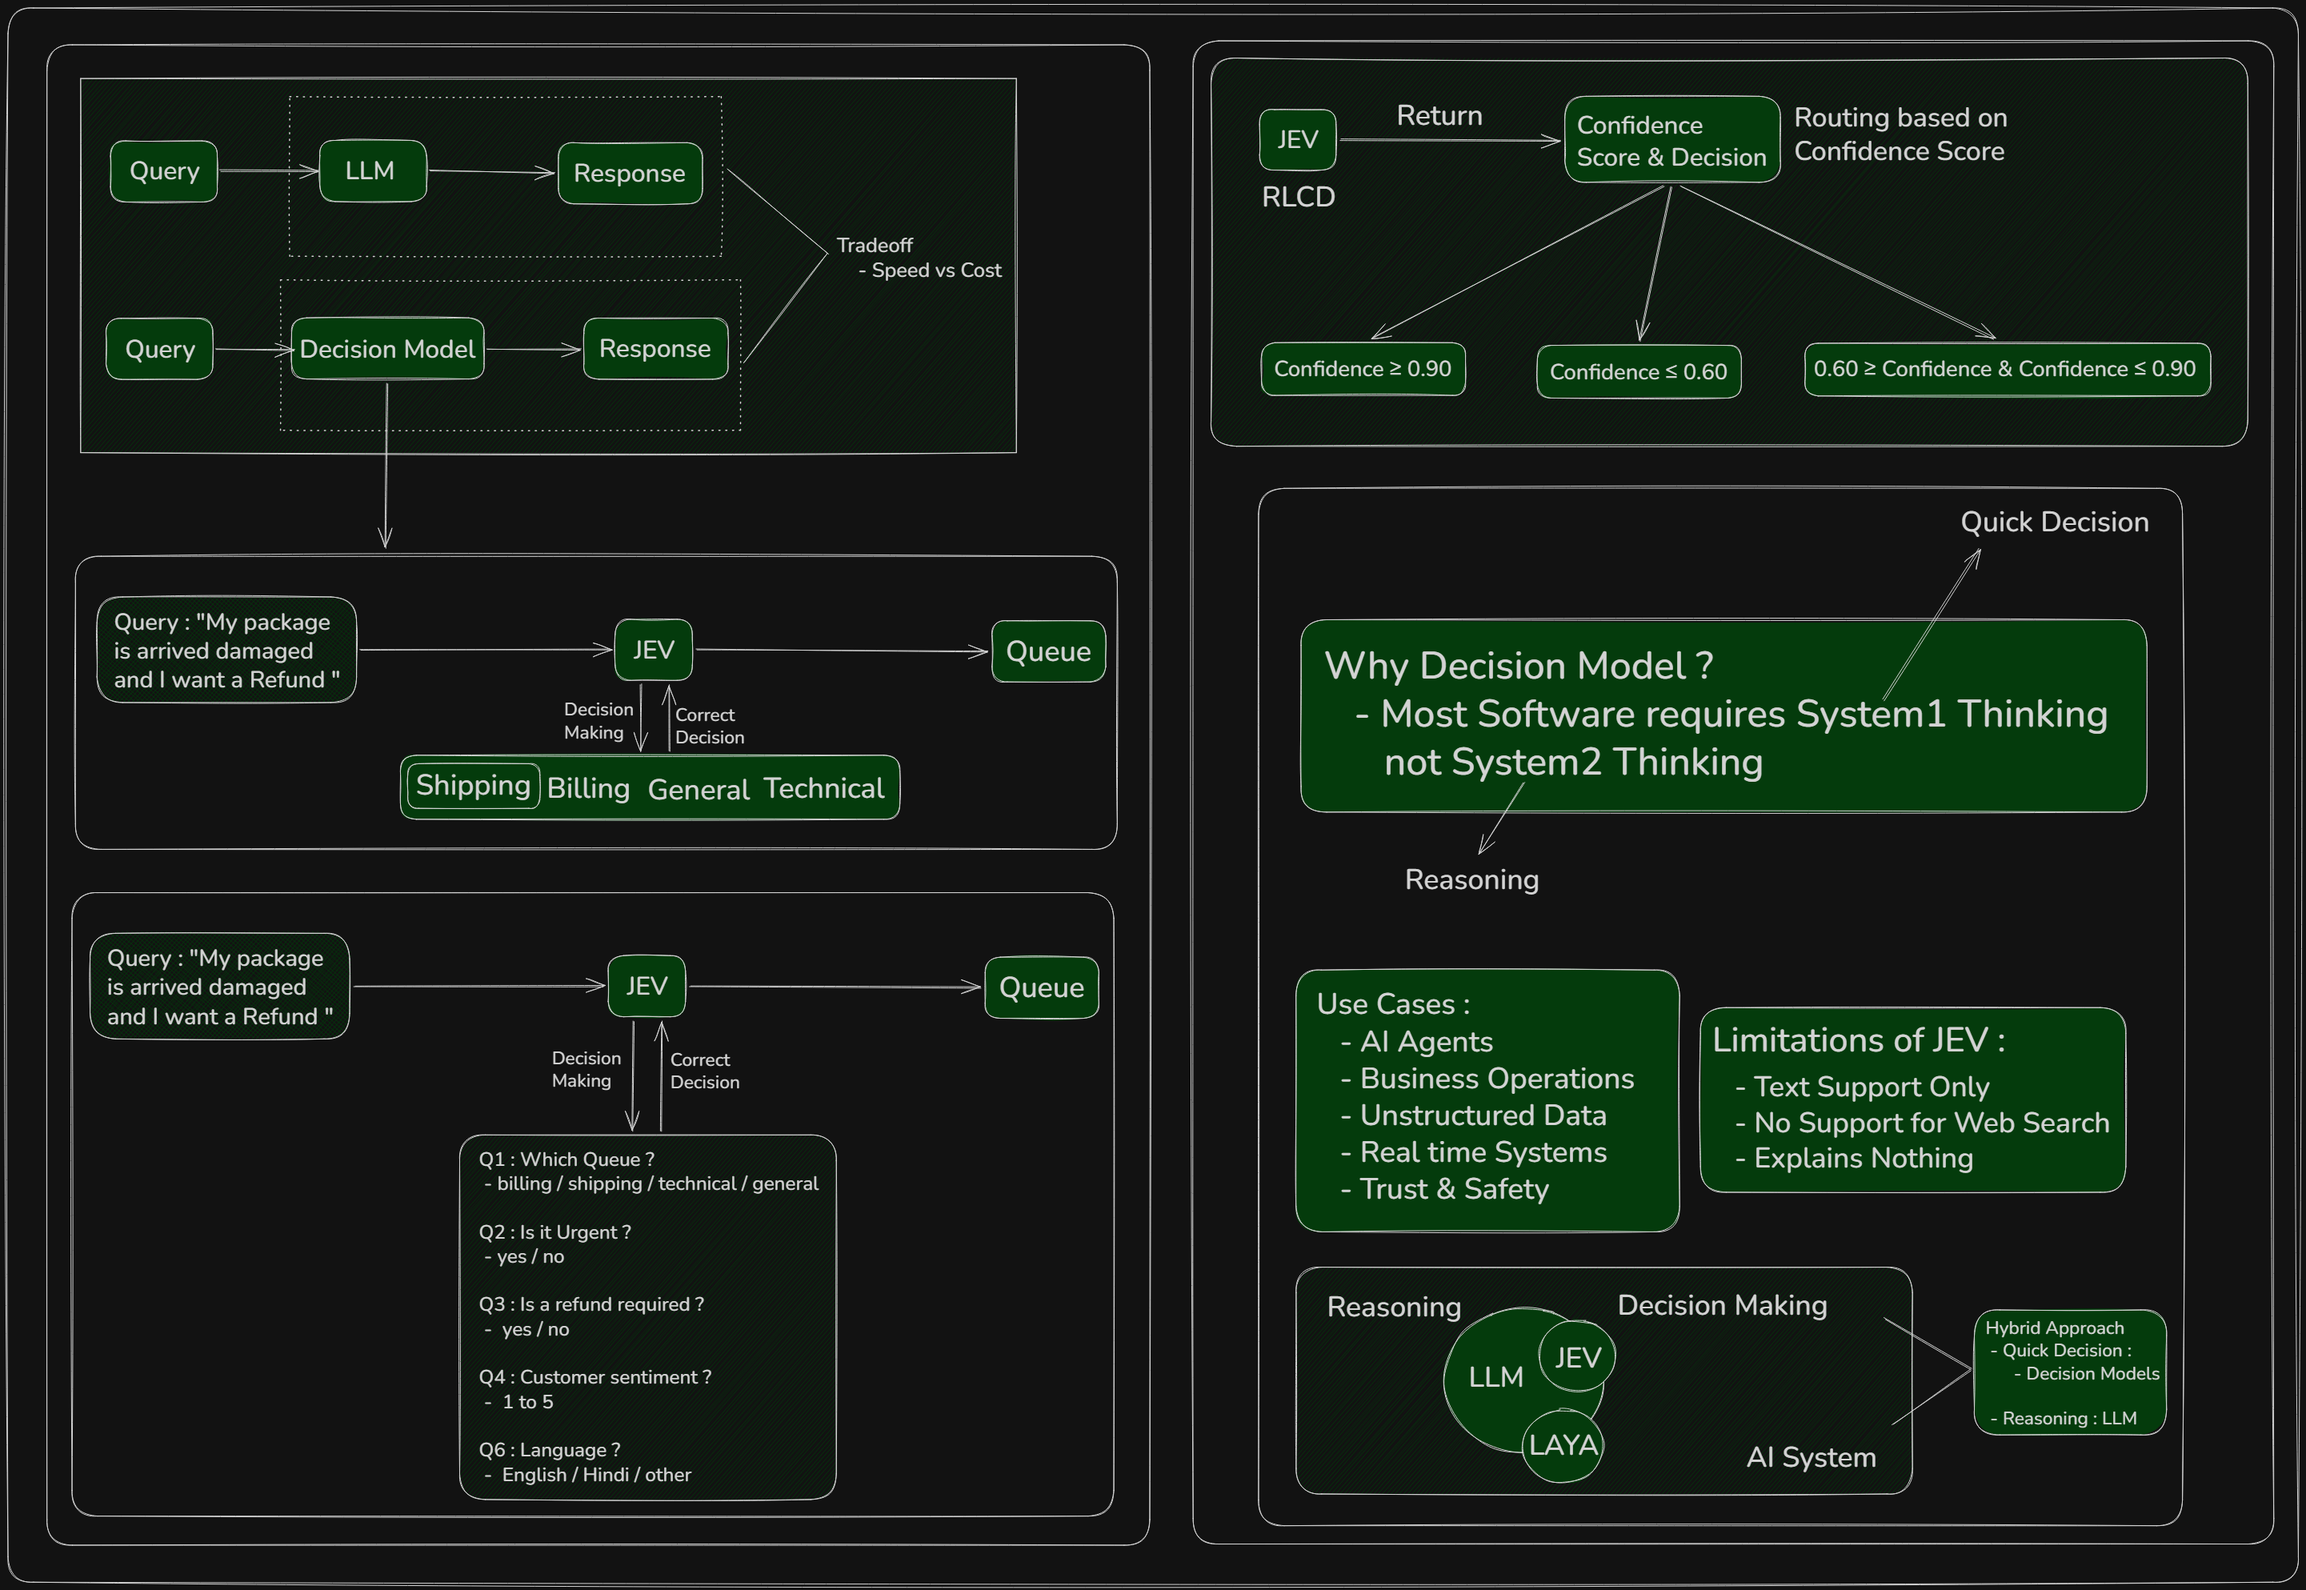
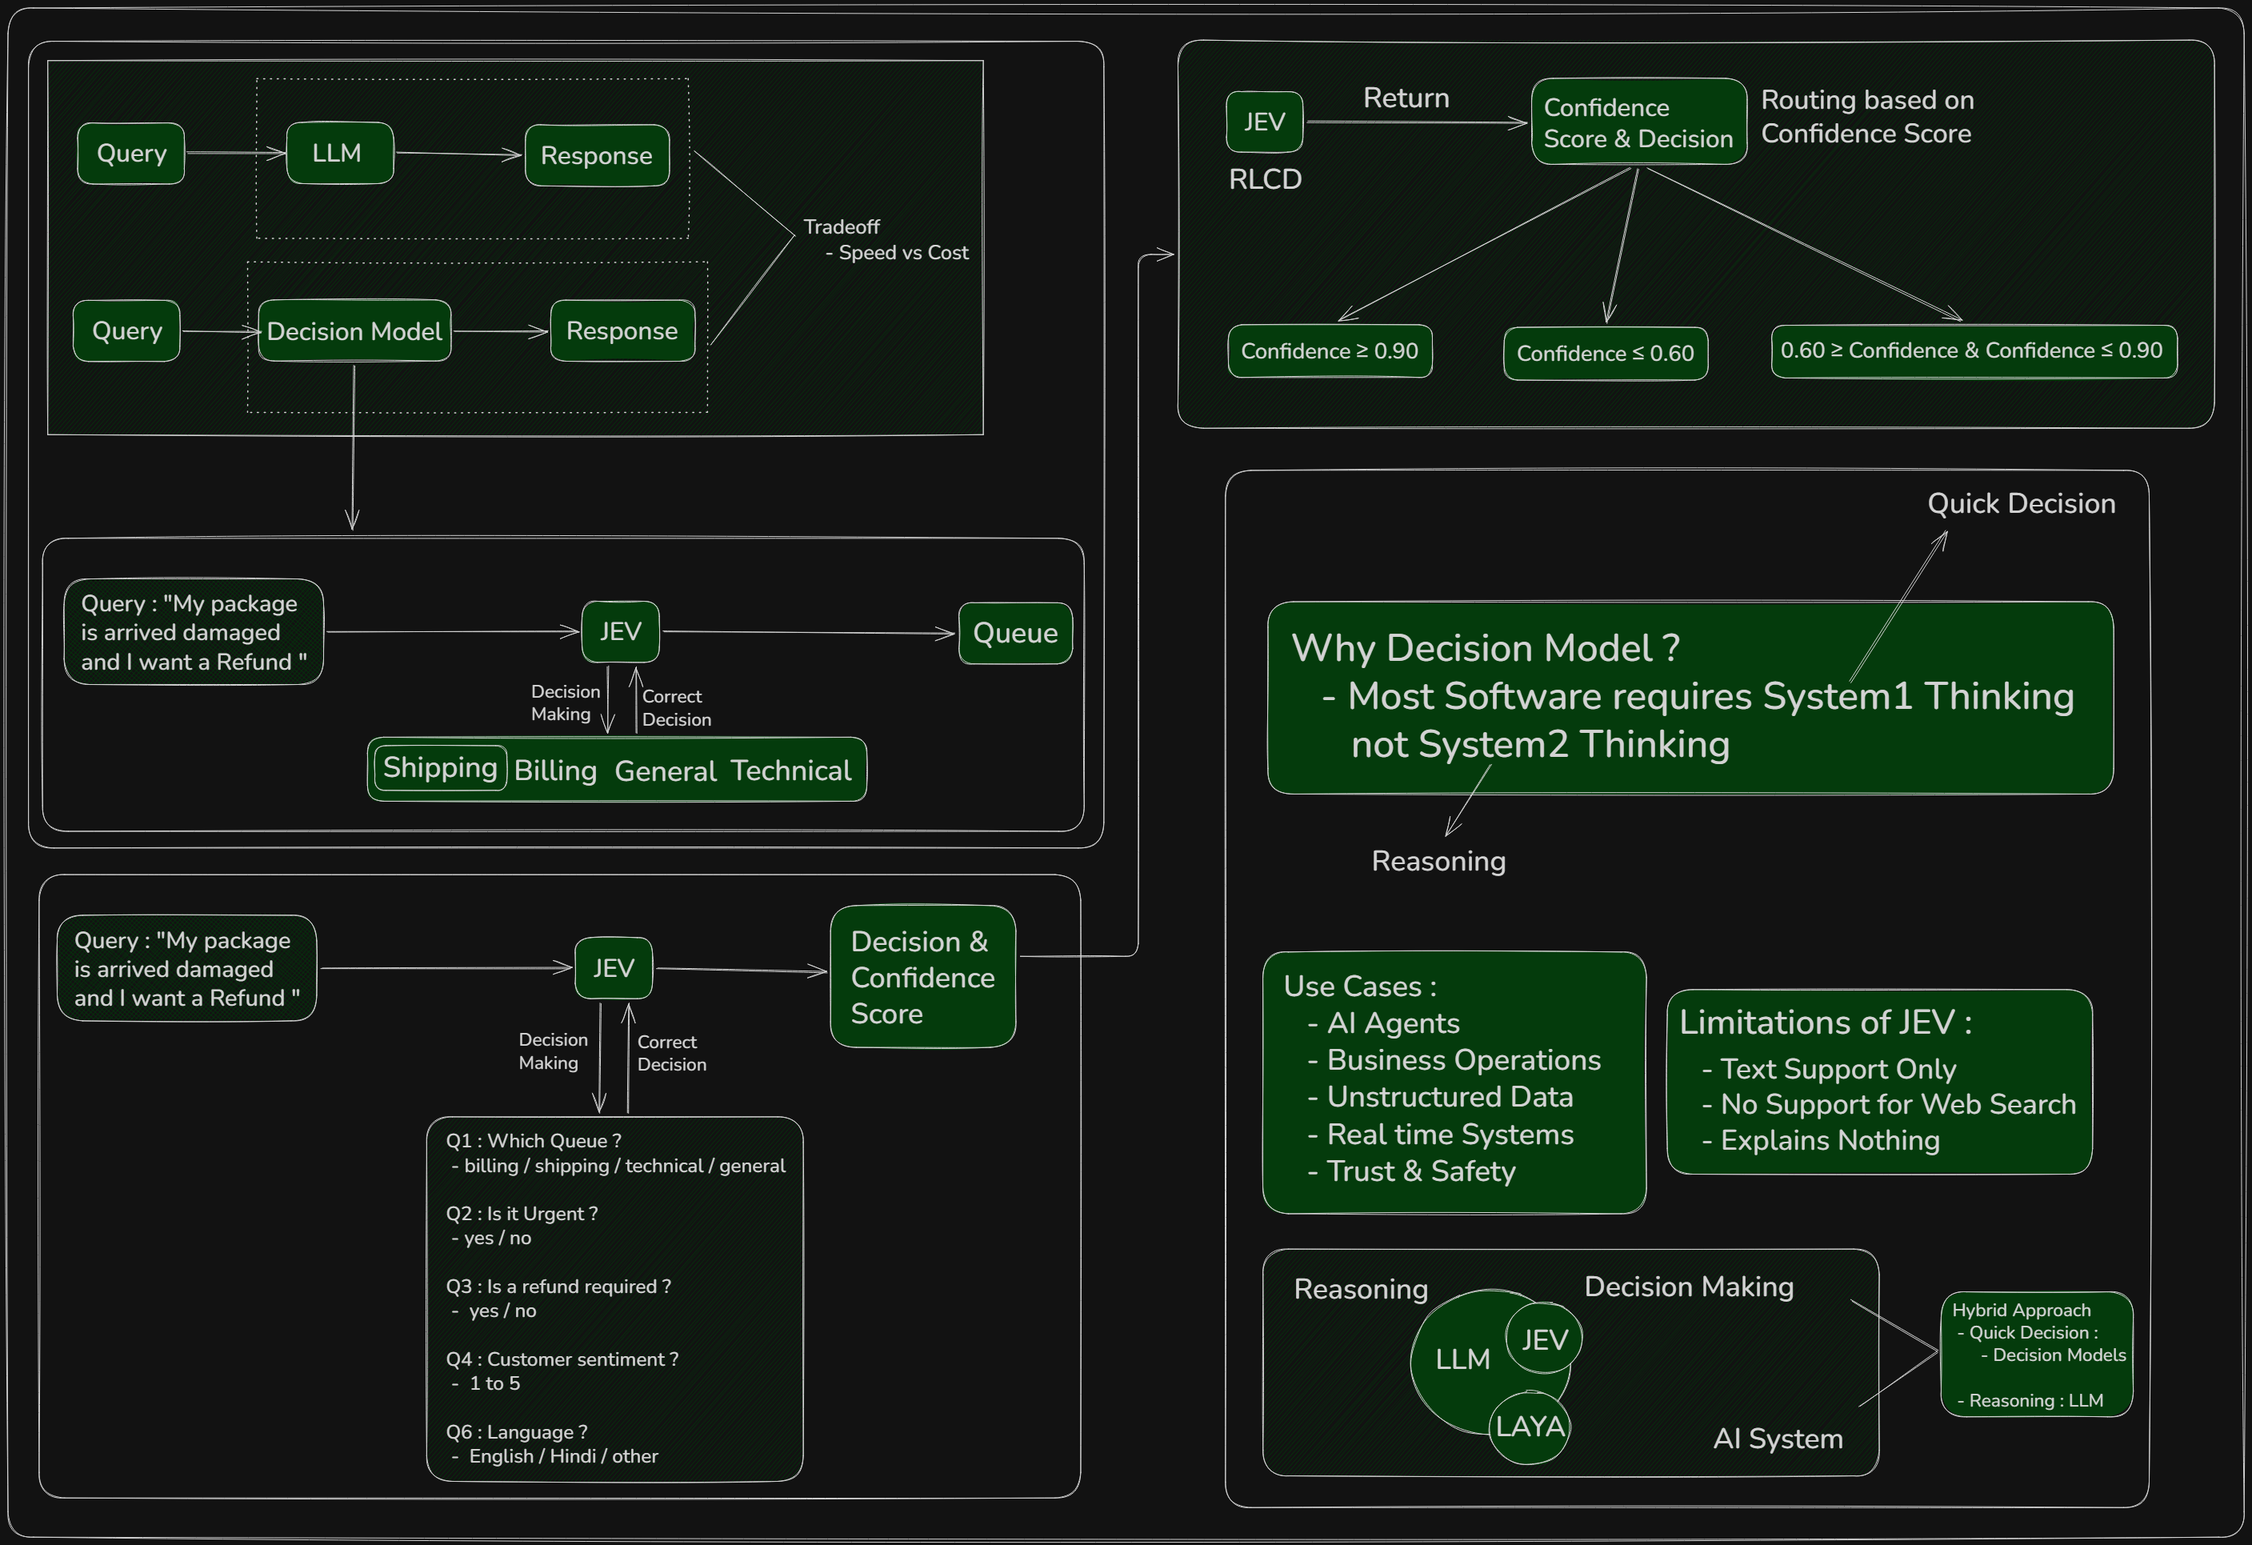
adding improved  diagram -  Decision Models like Jev Laya etc

diff --git a/JEV/.md b/JEV/.md
@@ -1,0 +1,3 @@
+![
+    
+](image.png)
